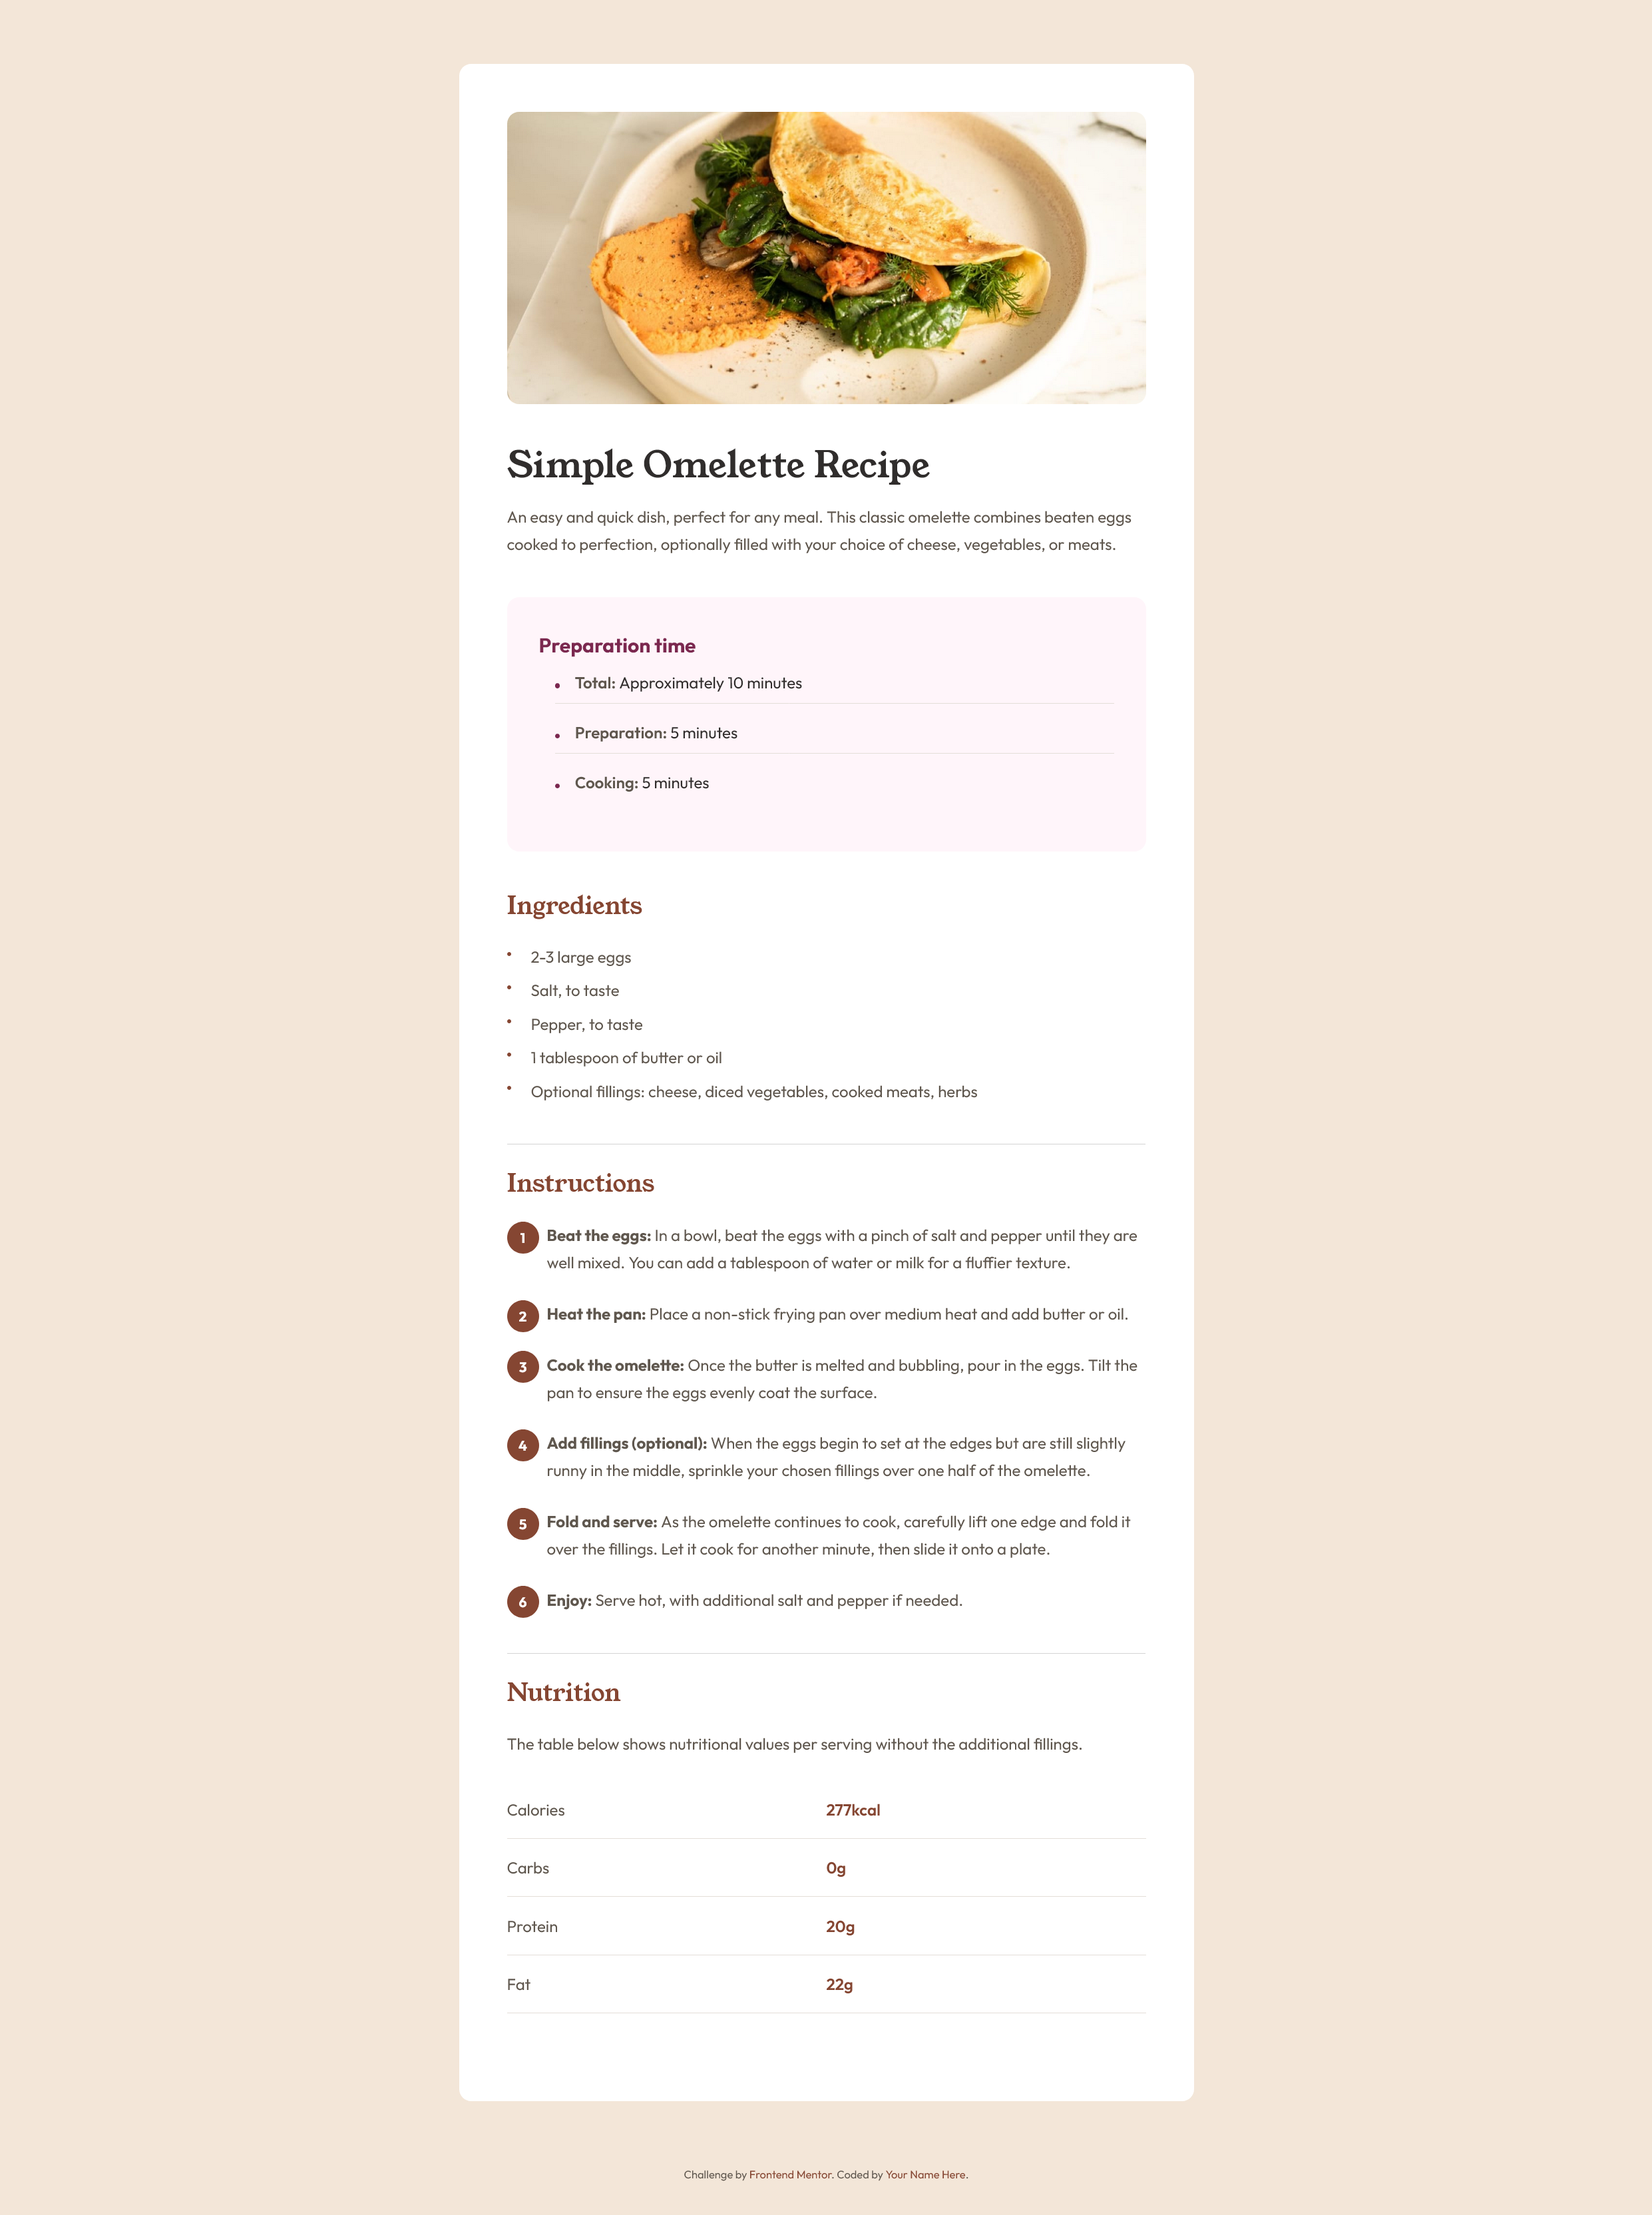
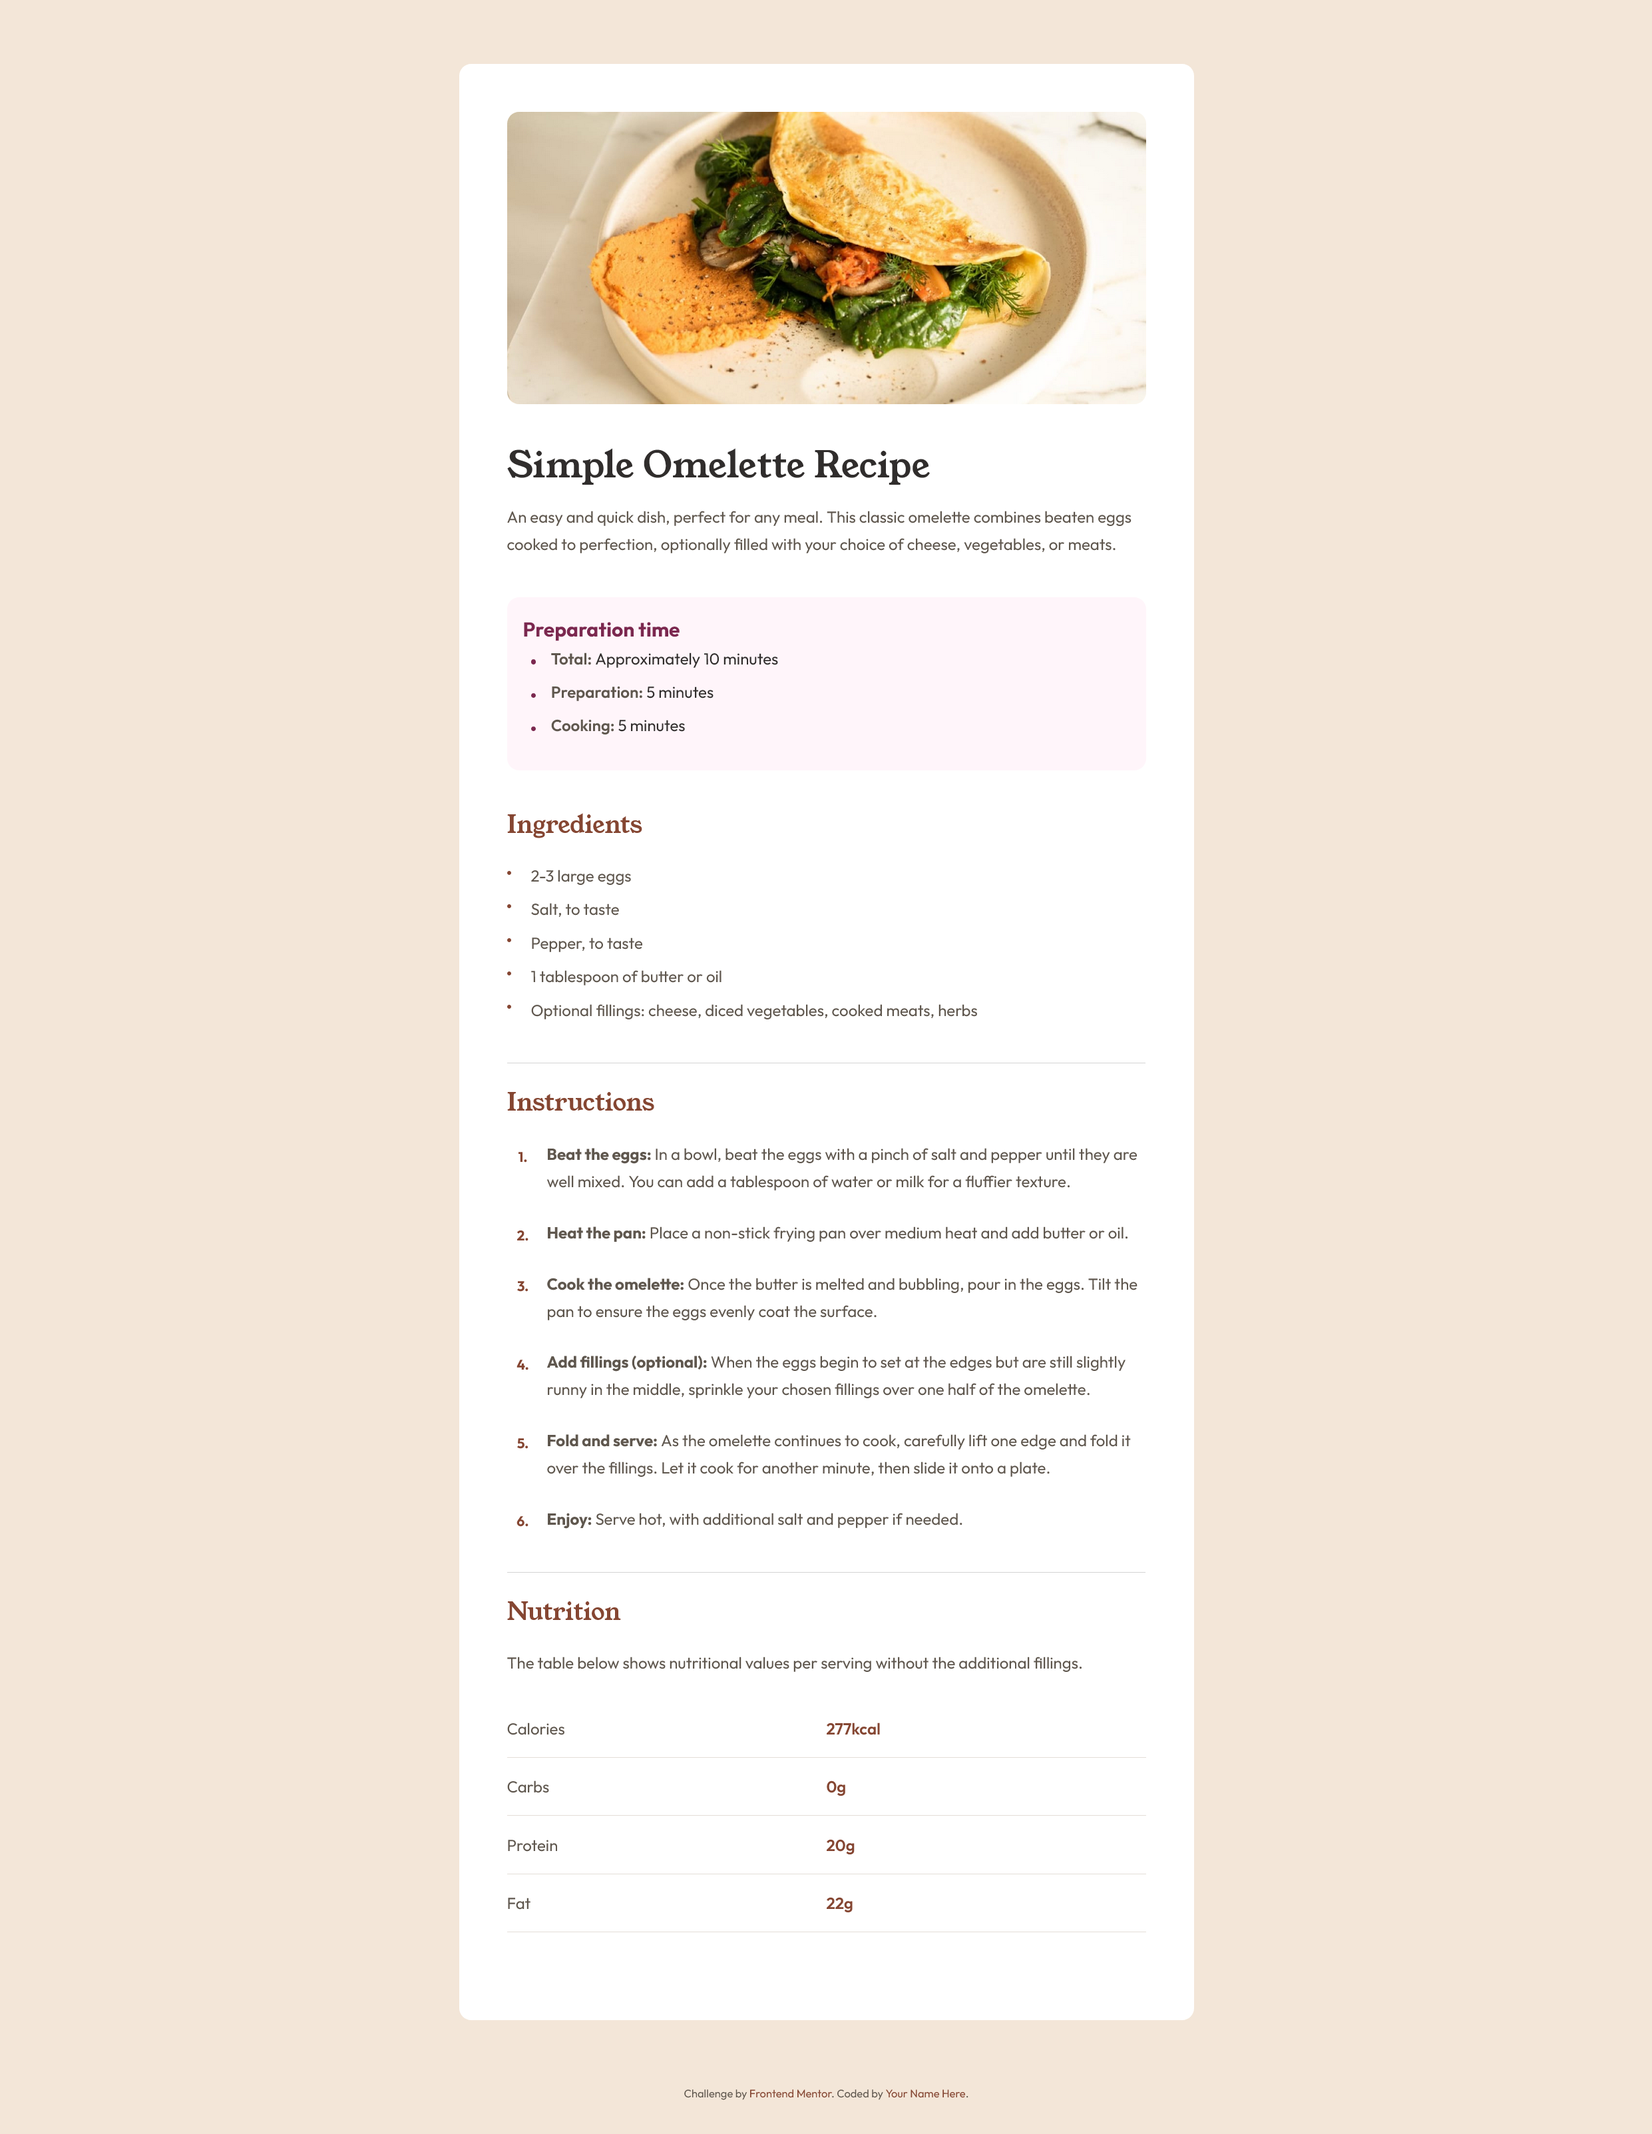
Update all changes - CSS improvements, result images, and gitignore

diff --git a/newbie/recipe-page/styles/index.css b/newbie/recipe-page/styles/index.css
@@ -4,7 +4,7 @@
 .recipe-container {
   max-width: 736px;
   margin: 0 auto;
-  padding: var(--spacing-md);
+  padding: 1rem;
   background-color: var(--color-white);
 }
 
@@ -25,11 +25,6 @@
   border-radius: var(--border-radius);
 }
 
-/* Recipe Header */
-.recipe-header {
-  margin-bottom: var(--spacing-lg);
-}
-
 .recipe-title {
   margin-bottom: var(--spacing-sm);
   color: var(--color-stone-900);
@@ -43,7 +38,7 @@
 /* Preparation Time */
 .prep-time {
   background-color: var(--color-rose-50);
-  padding: var(--spacing-lg);
+  padding: 1rem;
   border-radius: var(--border-radius);
   margin-bottom: var(--spacing-lg);
   font-family: var();
@@ -55,12 +50,7 @@
 
 .prep-time ul {
   list-style: none;
-  padding-left: 1rem;
-}
-
-.prep-time li {
-  padding: var(--spacing-xs) 0;
-  border-bottom: 1px solid var(--color-stone-150);
+  padding-left: 0;
 }
 
 .prep-time li::before {
@@ -141,14 +131,13 @@
 }
 
 .instructions li::before {
-  content: counter(instruction-counter);
+  content: counter(instruction-counter) ".";
   position: absolute;
   left: 0;
   top: 0;
   width: 2rem;
   height: 2rem;
-  background-color: var(--color-brown-800);
-  color: var(--color-white);
+  color: var(--color-brown-800);
   border-radius: 50%;
   display: flex;
   align-items: center;
